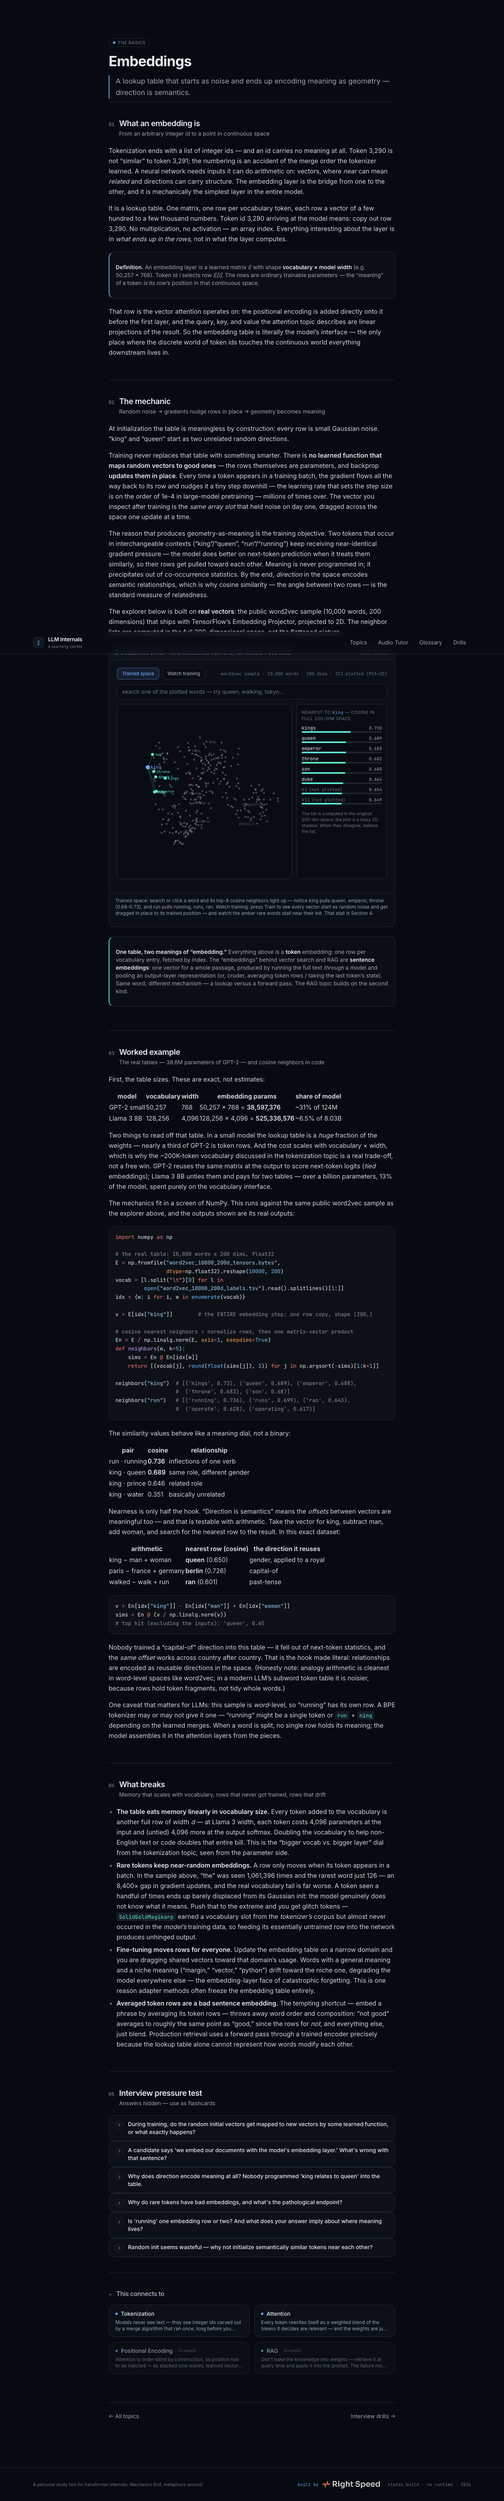
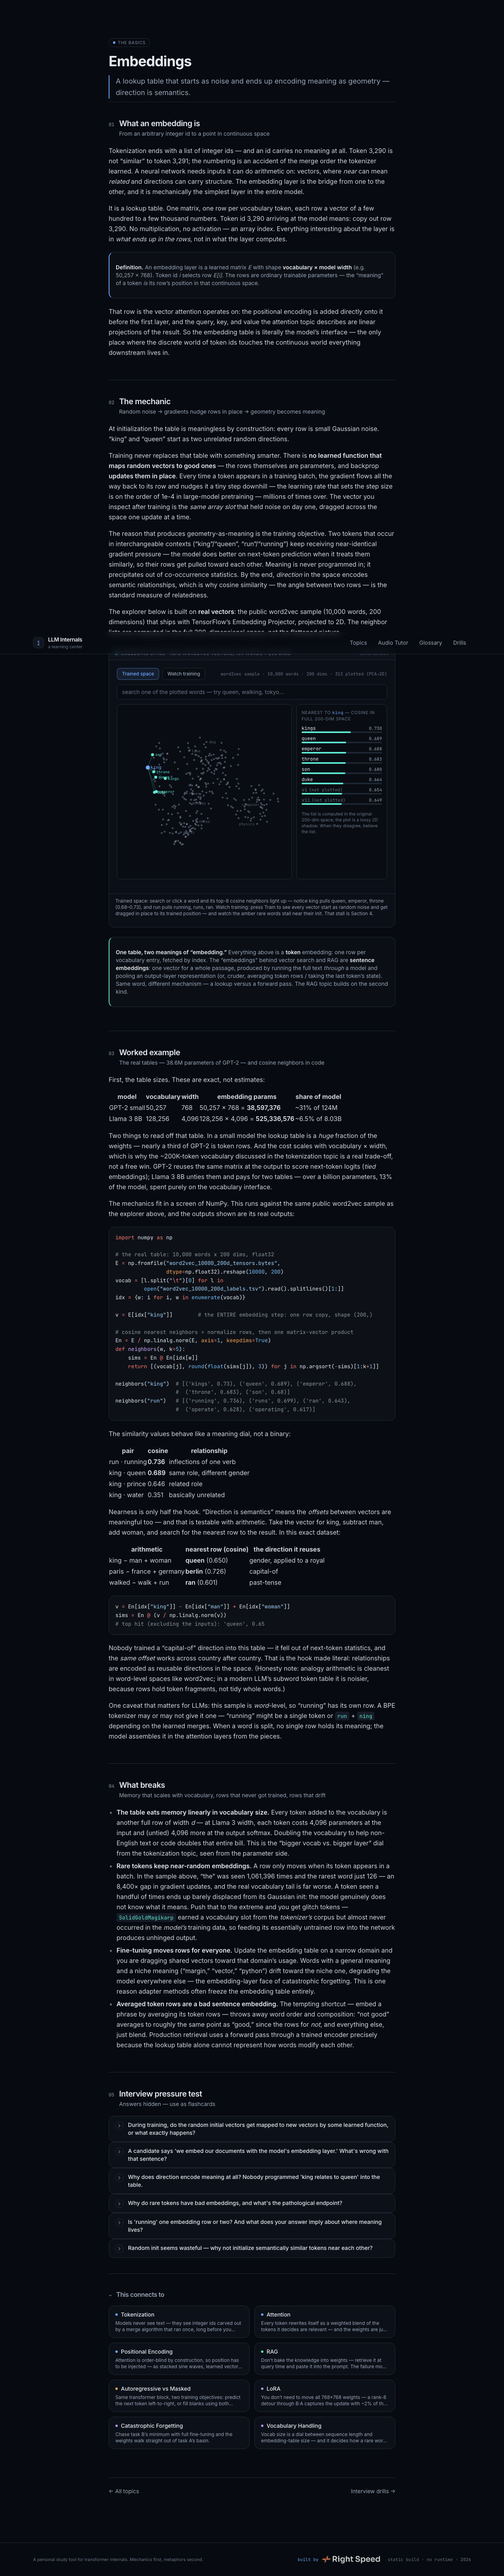
Add hover word labels to the embedding-space scatter
Hovering any dot now shows its word + training count immediately (SVG
overlay with outlined text, drawn above all dots), replacing the slow
native <title> tooltip. Oversized transparent hit circles make the tiny
dots easy to target; works in both Trained space and Watch training.
Verified with a Playwright hover test (ralph/logs/embeddings-hover.png).

Changed region(s): [[0.2188, 0.0, 0.7812, 0.9674], [0.6562, 0.5305, 0.6875, 0.5617], [0.625, 0.4993, 0.6562, 0.5305]]

diff --git a/src/components/islands/EmbeddingSpaceExplorer.tsx b/src/components/islands/EmbeddingSpaceExplorer.tsx
@@ -65,6 +65,7 @@ const rareSet = new Set(RAREST.map((p) => p.w));
 export default function EmbeddingSpaceExplorer() {
   const [mode, setMode] = useState<'space' | 'train'>('space');
   const [selected, setSelected] = useState<string>('king');
+  const [hovered, setHovered] = useState<string | null>(null);
   const [query, setQuery] = useState('');
   const [progress, setProgress] = useState(0);
   const [playing, setPlaying] = useState(false);
@@ -236,22 +237,25 @@ export default function EmbeddingSpaceExplorer() {
             const fill = isSel ? ACCENT : isNb ? LIVE : isRare ? RARE : DOT;
             const r = isSel ? 0.028 : isNb || isRare ? 0.02 : 0.013;
             const labeled =
-              isSel ||
-              isNb ||
-              isRare ||
-              (LANDMARKS.includes(p.w) && (mode === 'space' || progress >= 1));
+              hovered !== p.w &&
+              (isSel ||
+                isNb ||
+                isRare ||
+                (LANDMARKS.includes(p.w) && (mode === 'space' || progress >= 1)));
             return (
               <g key={p.w}>
+                <circle cx={x} cy={y} r={r} fill={fill} pointerEvents="none" />
+                {/* oversized transparent hit area so tiny dots are hoverable */}
                 <circle
                   cx={x}
                   cy={y}
-                  r={r}
-                  fill={fill}
+                  r={0.034}
+                  fill="transparent"
                   className={mode === 'space' ? 'cursor-pointer' : undefined}
+                  onMouseEnter={() => setHovered(p.w)}
+                  onMouseLeave={() => setHovered((h) => (h === p.w ? null : h))}
                   onClick={mode === 'space' ? () => setSelected(p.w) : undefined}
-                >
-                  <title>{`${p.w} (seen ${p.c.toLocaleString()}×)`}</title>
-                </circle>
+                />
                 {labeled && (
                   <text
                     x={x > 0.7 ? x - 0.035 : x + 0.035}
@@ -268,6 +272,39 @@ export default function EmbeddingSpaceExplorer() {
               </g>
             );
           })}
+
+          {/* hover label — drawn last so it sits above every dot */}
+          {(() => {
+            const hp = hovered ? byWord.get(hovered) : undefined;
+            if (!hp) return null;
+            const [x, y] = pos(hp);
+            const isSel = mode === 'space' && hp.w === selected;
+            const isNb = mode === 'space' && neighborSet.has(hp.w);
+            const isRare = mode === 'train' && rareSet.has(hp.w);
+            const color = isSel ? ACCENT : isNb ? LIVE : isRare ? RARE : '#e2e8f0';
+            const flip = x > 0.7;
+            return (
+              <g pointerEvents="none">
+                <circle cx={x} cy={y} r={0.024} fill="none" stroke={color} strokeWidth={0.006} />
+                <text
+                  x={flip ? x - 0.04 : x + 0.04}
+                  textAnchor={flip ? 'end' : 'start'}
+                  y={y + 0.018}
+                  fontSize={0.058}
+                  fontFamily="ui-monospace, monospace"
+                  fill={color}
+                  stroke="rgba(9,11,16,0.85)"
+                  strokeWidth={0.014}
+                  paintOrder="stroke"
+                >
+                  {hp.w}
+                  <tspan fill="rgba(148,163,184,0.8)" fontSize={0.042}>
+                    {` ${hp.c.toLocaleString()}×`}
+                  </tspan>
+                </text>
+              </g>
+            );
+          })()}
         </svg>
 
         {/* Neighbor panel (trained space only) */}
